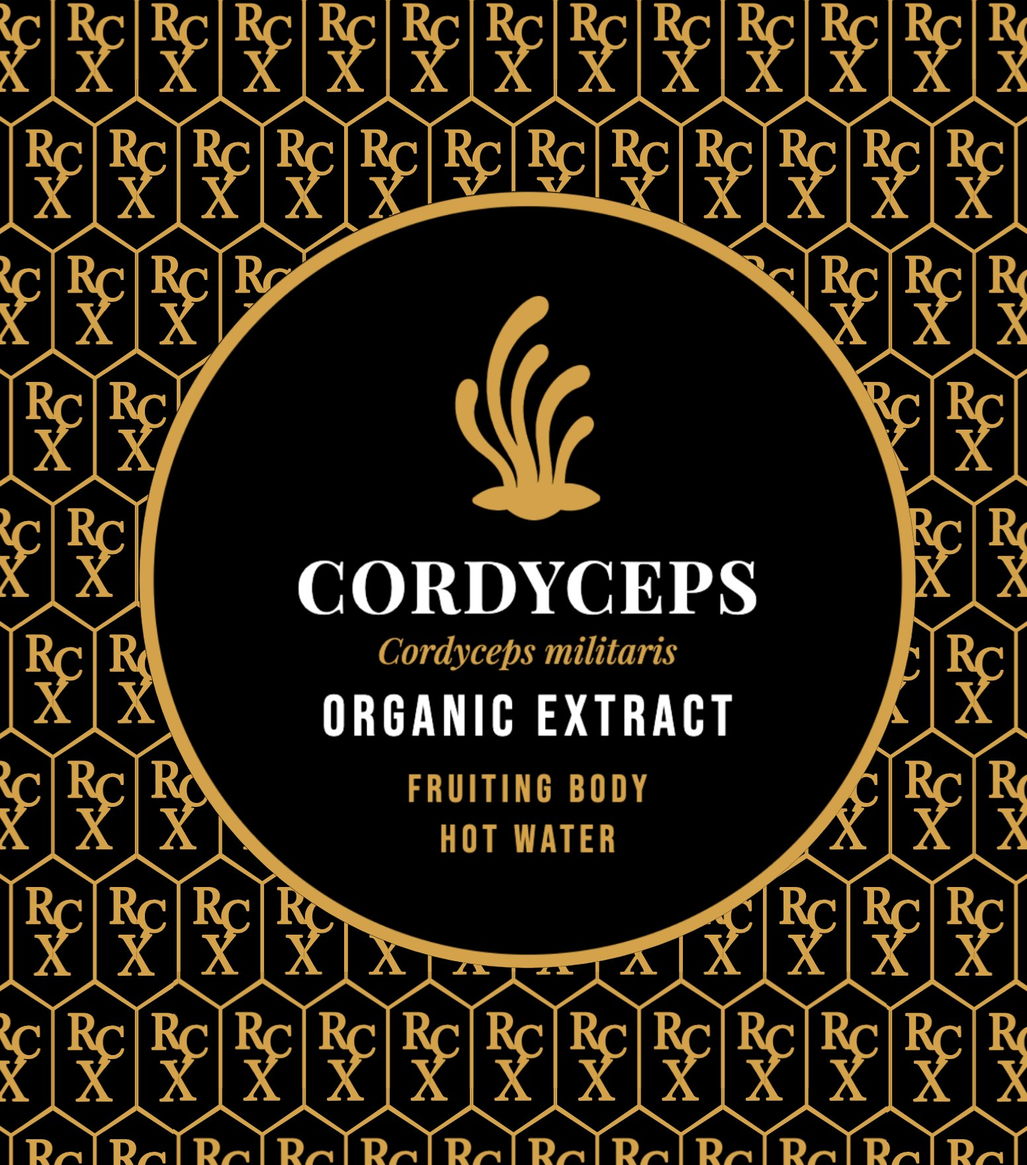
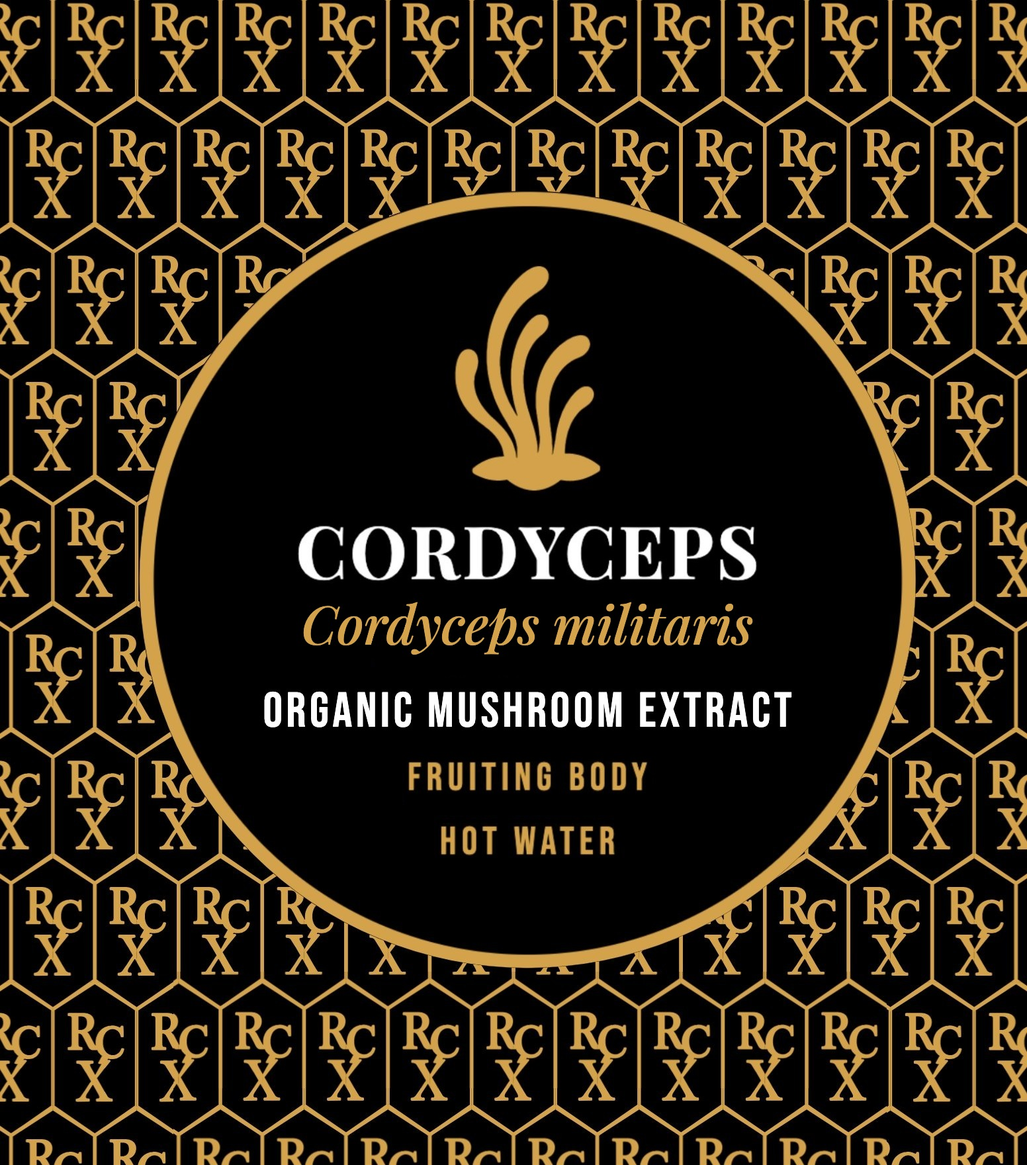
NOTE

Changed region(s): [[0.2474, 0.2188, 0.7732, 0.75]]

diff --git a/404.html b/404.html
@@ -822,21 +822,19 @@ button,nav,header,h1,h2,h3,h4,h5,h6,label,summary,[role="link"],[role="button"],
 <div style="width:100%;display:grid;background-color:#000;grid-template-columns:minmax(0,1fr) minmax(0,1fr);gap:0;align-items:stretch" data-split="half">
 <div data-m="wte-col" style="min-width:0;display:flex;flex-direction:column;justify-content:flex-start;gap:0;padding:40px 56px 40px calc(max(28px,(100% - 1300px) / 2 + 28px) + 52px);background-color:#000;background-image:linear-gradient(rgba(0,0,0,.86),rgba(0,0,0,.92)),url('assets/photo/why-rv-desk-nopen.jpg');background-size:cover;background-repeat:no-repeat;background-position:12% 38%">
 <div data-m="wte-inner" style="min-width:0;align-self:flex-end;width:min(100%,600px)">
-<div data-m="pk-dup" style="display:none;position:relative;overflow:hidden"><img src="assets/photo/packets-powder-trio-v7.png" alt="Cordyceps, Lion's Mane and Turkey Tail packets on their mushroom powders" style="position:absolute;inset:0;width:100%;height:100%;object-fit:cover;object-position:center 55%;display:block;filter:brightness(.8)" loading="lazy"></div>
-<h2 data-sweep="true" data-m="wte-h2" style="font-family:'Oswald',sans-serif;font-weight:300;letter-spacing:.1em;font-size:clamp(28px,4vw,53px);line-height:1.05;color:#F1ECE1;margin:0;width:100%;text-align:center;padding-left:120px">WHY THIS E<img src="assets/extract-x-gold.svg" alt="X" style="height:clamp(28px,3.95vw,54px);width:auto;display:inline-block;vertical-align:-0.2em;margin:0 -0.14em 0 -0.34em">ISTS</h2>
-<div data-m="wte-rule" style="width:calc(100% - 120px);height:2px;background:#D4A24A;margin:24px 0 18px;position:relative;left:120px"></div>
+<div data-m="pk-dup" style="display:none;position:relative;overflow:hidden"><img src="assets/photo/packets-powder-trio-v11.png" alt="Cordyceps, Lion's Mane and Turkey Tail packets on their mushroom powders" style="position:absolute;inset:0;width:100%;height:100%;object-fit:cover;object-position:center 92%;display:block;filter:brightness(.8)" loading="lazy"></div>
 <div data-m="wte-text" style="display:flex;flex-direction:column;gap:14px;width:100%;margin-top:18px;padding-left:120px">
-<p style="font-size:clamp(15px,1.24vw,19px);line-height:1.5;color:#FFFFFF;margin:0;text-align:justify">Raw Canopy Extract is an uncompromising new brand of organic, single-serving packets that you tear open and add to your favorite cup of coffee or tea. One ingredient in each. Nothing else. Made necessary by a supplement world full of healthy promises cut for profit.</p>
-<p style="font-size:clamp(15px,1.24vw,19px);line-height:1.5;color:#FFFFFF;margin:0;text-align:justify">We're launching with three non-psychedelic, everyday mushroom extract powders: lion's mane, cordyceps and turkey tail. We follow the research that yields the best results for the human body, species by species.</p>
+<p style="font-size:clamp(15px,1.24vw,19px);line-height:1.5;color:#FFFFFF;margin:0;text-align:justify"><span style="color:#D4A24A;font-family:'Bebas Neue',sans-serif;letter-spacing:.12em;font-size:1.18em;line-height:0">RAW CANOPY EXTRACT</span> is an uncompromising new brand of organic, single-serving packets that you tear open and add to your favorite cup of coffee or tea. One ingredient in each. Nothing else. Made necessary by a supplement world full of healthy promises cut for profit.</p>
+<p style="font-size:clamp(15px,1.24vw,19px);line-height:1.5;color:#FFFFFF;margin:0;text-align:justify">We're launching with three non-psychedelic, <span style="color:#D4A24A">everyday mushroom powders</span>: lion's mane, cordyceps and turkey tail. We follow the research that yields the best results for the human body, species by species.</p>
 <div style="display:flex;flex-direction:column;gap:16px;align-self:stretch;text-align:center;padding-left:32px">
-<div style="display:flex;flex-direction:column;gap:4px"><p style="font-size:clamp(16px,1.35vw,21px);line-height:1.4;color:#FFFFFF;margin:0">Cordyceps for physical performance:</p><a href="https://journals.plos.org/plosone/article?id=10.1371/journal.pone.0351725" target="_blank" rel="noopener" style="font-size:clamp(13px,1vw,15px);line-height:1.45;color:#D4A24A;text-decoration:underline;text-underline-offset:3px;text-wrap:pretty">Cordyceps fruiting body extract and faster reaction times: a randomized, placebo-controlled trial (PLOS One, 2026)</a></div>
-<div style="display:flex;flex-direction:column;gap:4px"><p style="font-size:clamp(16px,1.35vw,21px);line-height:1.4;color:#FFFFFF;margin:0">Lion's mane for mental clarity:</p><a href="https://www.jstage.jst.go.jp/article/biomedres/40/4/40_125/_article" target="_blank" rel="noopener" style="font-size:clamp(13px,1vw,15px);line-height:1.45;color:#D4A24A;text-decoration:underline;text-underline-offset:3px;text-wrap:pretty">Lion's mane and memory and thinking: a 12-week randomized, placebo-controlled trial (Biomedical Research, 2019)</a></div>
-<div style="display:flex;flex-direction:column;gap:4px"><p style="font-size:clamp(16px,1.35vw,21px);line-height:1.4;color:#FFFFFF;margin:0">Turkey tail for immune support:</p><a href="https://www.sciencedirect.com/science/article/abs/pii/S156757690300290X" target="_blank" rel="noopener" style="font-size:clamp(13px,1vw,15px);line-height:1.45;color:#D4A24A;text-decoration:underline;text-underline-offset:3px;text-wrap:pretty">Turkey tail (Yun Zhi) and immune function in 100 healthy adults: a randomized, placebo-controlled trial (International Immunopharmacology, 2004)</a></div>
+<div style="display:flex;flex-direction:column;gap:4px"><p style="font-size:clamp(16px,1.35vw,21px);line-height:1.4;color:#FFFFFF;margin:0">Cordyceps mushroom for physical performance:</p><a href="https://journals.plos.org/plosone/article?id=10.1371/journal.pone.0351725" target="_blank" rel="noopener" style="font-size:clamp(13px,1vw,15px);line-height:1.45;color:#D4A24A;text-decoration:underline;text-underline-offset:3px;text-wrap:pretty">Cordyceps fruiting body extract and faster reaction times: a randomized, placebo-controlled trial (PLOS One, 2026)</a></div>
+<div style="display:flex;flex-direction:column;gap:4px"><p style="font-size:clamp(16px,1.35vw,21px);line-height:1.4;color:#FFFFFF;margin:0">Lion's mane mushroom for mental clarity:</p><a href="https://www.jstage.jst.go.jp/article/biomedres/40/4/40_125/_article" target="_blank" rel="noopener" style="font-size:clamp(13px,1vw,15px);line-height:1.45;color:#D4A24A;text-decoration:underline;text-underline-offset:3px;text-wrap:pretty">Lion's mane and memory and thinking: a 12-week randomized, placebo-controlled trial (Biomedical Research, 2019)</a></div>
+<div style="display:flex;flex-direction:column;gap:4px"><p style="font-size:clamp(16px,1.35vw,21px);line-height:1.4;color:#FFFFFF;margin:0">Turkey tail mushroom for immune support:</p><a href="https://www.sciencedirect.com/science/article/abs/pii/S156757690300290X" target="_blank" rel="noopener" style="font-size:clamp(13px,1vw,15px);line-height:1.45;color:#D4A24A;text-decoration:underline;text-underline-offset:3px;text-wrap:pretty">Turkey tail (Yun Zhi) and immune function in 100 healthy adults: a randomized, placebo-controlled trial (International Immunopharmacology, 2004)</a></div>
 </div>
 <div style="display:flex;flex-direction:column;align-items:flex-end;gap:14px;margin:0">
 <p style="font-family:'Bebas Neue',sans-serif;letter-spacing:.06em;font-size:clamp(15px,1.72vw,27px);line-height:1.25;color:#D4A24A;margin:0;white-space:nowrap;display:block;text-align:right" data-keep-one-line="true">THE GYM. THE VIDEO CALL. THE LONG FLIGHT.</p>
 </div>
-<p style="font-size:clamp(16px,1.35vw,21px);line-height:1.5;color:#FFFFFF;margin:0;align-self:stretch;text-align:center;padding-left:32px"><span style="display:block">Not a coffee or tea drinker? Hot water or a smoothie works just as well.</span><span style="display:block">One 2 gram serving per packet, small enough for your pocket or purse and made for life on the go.</span><span style="display:block">Elevate your favorite cup with the power of botanical science.</span></p>
+<p style="font-size:clamp(15px,1.24vw,19px);line-height:1.5;color:#FFFFFF;margin:0;align-self:stretch;text-align:center;padding-left:32px"><span style="display:block">Not a coffee or tea drinker? Hot water or a smoothie works just as well.</span><span style="display:block">One 2 gram serving per packet, small enough for your pocket or purse and made for life on the go.</span><span style="display:block">Elevate your favorite cup with the power of botanical science.</span></p>
 <p data-m="lab-orig" style="font-size:clamp(15px,1.24vw,19px);line-height:1.5;color:#FFFFFF;margin:0;text-align:justify">Every batch we make is tested by an independent lab. We call the results the receipt. It's simple proof of what's actually in your packet: how much beta-glucan it has, the compound labs use to measure real mushroom content, and that it passed checks for contaminants. Find the lot number on the side of your recyclable steel tin and <a data-page="receipts" onClick="{{ go }}" role="link" tabindex="0" style="color:#D4A24A;text-decoration:underline;cursor:pointer" style-hover="color:#F1ECE1">look it up on our Receipts page</a> to see the results for the exact batch in your hands. For anyone who wants the full science, the complete lab certificate is there too.</p>
 </div>
 </div>
@@ -861,7 +859,7 @@ button,nav,header,h1,h2,h3,h4,h5,h6,label,summary,[role="link"],[role="button"],
 <div style="position:absolute;inset:0;display:grid;grid-template-rows:minmax(0,1fr) minmax(0,1fr);gap:0;line-height:0;font-size:0">
 
 
-<div data-m="pk-orig" style="position:relative;min-height:0;min-width:0;overflow:hidden"><img src="assets/photo/packets-powder-trio-v7.png" alt="Cordyceps, Lion's Mane and Turkey Tail packets on their mushroom powders" style="position:absolute;inset:0;width:100%;height:100%;object-fit:cover;object-position:center 55%;display:block;filter:brightness(.8)" loading="lazy"></div><div style="position:relative;min-height:0;overflow:hidden;line-height:0"><img src="assets/photo/tent-mug-zoom.jpg" alt="A woman holding a mug in a tent" style="width:100%;height:100%;min-height:0;object-fit:cover;object-position:center 50%;display:block" loading="lazy"><div style="position:absolute;inset:0;pointer-events:none;background:radial-gradient(118% 108% at 44% 38%,rgba(0,0,0,0) 48%,rgba(0,0,0,.2) 76%,rgba(0,0,0,.44) 100%)"></div></div></div>
+<div data-m="pk-orig" style="position:relative;min-height:0;min-width:0;overflow:hidden"><img src="assets/photo/packets-powder-trio-v11.png" alt="Cordyceps, Lion's Mane and Turkey Tail packets on their mushroom powders" style="position:absolute;inset:0;width:100%;height:100%;object-fit:cover;object-position:center 92%;display:block;filter:brightness(.8)" loading="lazy"></div><div style="position:relative;min-height:0;overflow:hidden;line-height:0"><img src="assets/photo/tent-mug-zoom.jpg" alt="A woman holding a mug in a tent" style="width:100%;height:100%;min-height:0;object-fit:cover;object-position:center 50%;display:block" loading="lazy"><div style="position:absolute;inset:0;pointer-events:none;background:radial-gradient(118% 108% at 44% 38%,rgba(0,0,0,0) 48%,rgba(0,0,0,.2) 76%,rgba(0,0,0,.44) 100%)"></div></div></div>
 </div>
 </div>
 </section>
@@ -912,7 +910,7 @@ button,nav,header,h1,h2,h3,h4,h5,h6,label,summary,[role="link"],[role="button"],
 <div data-tin="true" style="position:relative;width:86%;margin-top:22.3%;filter:drop-shadow(0 26px 30px rgba(0,0,0,.85))">
 <div aria-hidden="true" style="position:relative;width:102%;margin-left:-1%;aspect-ratio:80/8.6;background:linear-gradient(90deg,#050505 0%,#1A1A18 20%,#3A3936 42%,#1C1C1A 64%,#0B0B0A 85%,#030303 100%);border-radius:3px 3px 1px 1px;box-shadow:inset 0 1px 0 rgba(255,255,255,.28),inset 0 -2px 3px rgba(0,0,0,.55);border-bottom:1px solid rgba(212,162,74,.55)"></div>
 <div style="position:relative;background:#000">
-<img src="assets/photo/tins/rcx-front-lions-mane.jpg" alt="Lion's Mane steel tin front" style="width:100%;aspect-ratio:80/102;height:auto;display:block" loading="lazy">
+<img src="assets/photo/tins/rcx-front-lions-mane.jpg?v=8" alt="Lion's Mane steel tin front" style="width:100%;aspect-ratio:80/102;height:auto;display:block" loading="lazy">
 <div aria-hidden="true" style="position:absolute;inset:0;pointer-events:none;background:linear-gradient(90deg,rgba(0,0,0,.45) 0%,rgba(0,0,0,0) 9%,rgba(255,255,255,.05) 34%,rgba(255,255,255,0) 50%,rgba(0,0,0,0) 88%,rgba(0,0,0,.5) 100%),linear-gradient(180deg,rgba(0,0,0,.35) 0%,rgba(0,0,0,0) 4%,rgba(0,0,0,0) 94%,rgba(0,0,0,.4) 100%);box-shadow:inset 0 0 0 1px rgba(212,162,74,.32)"></div>
 </div>
 </div>
@@ -929,7 +927,7 @@ button,nav,header,h1,h2,h3,h4,h5,h6,label,summary,[role="link"],[role="button"],
 <div data-tin="true" style="position:relative;width:86%;margin-top:22.3%;filter:drop-shadow(0 26px 30px rgba(0,0,0,.85))">
 <div aria-hidden="true" style="position:relative;width:102%;margin-left:-1%;aspect-ratio:80/8.6;background:linear-gradient(90deg,#050505 0%,#1A1A18 20%,#3A3936 42%,#1C1C1A 64%,#0B0B0A 85%,#030303 100%);border-radius:3px 3px 1px 1px;box-shadow:inset 0 1px 0 rgba(255,255,255,.28),inset 0 -2px 3px rgba(0,0,0,.55);border-bottom:1px solid rgba(212,162,74,.55)"></div>
 <div style="position:relative;background:#000">
-<img src="assets/photo/tins/rcx-front-cordyceps.jpg" alt="Cordyceps steel tin front" style="width:100%;aspect-ratio:80/102;height:auto;display:block" loading="lazy">
+<img src="assets/photo/tins/rcx-front-cordyceps.jpg?v=9" alt="Cordyceps steel tin front" style="width:100%;aspect-ratio:80/102;height:auto;display:block" loading="lazy">
 <div aria-hidden="true" style="position:absolute;inset:0;pointer-events:none;background:linear-gradient(90deg,rgba(0,0,0,.45) 0%,rgba(0,0,0,0) 9%,rgba(255,255,255,.05) 34%,rgba(255,255,255,0) 50%,rgba(0,0,0,0) 88%,rgba(0,0,0,.5) 100%),linear-gradient(180deg,rgba(0,0,0,.35) 0%,rgba(0,0,0,0) 4%,rgba(0,0,0,0) 94%,rgba(0,0,0,.4) 100%);box-shadow:inset 0 0 0 1px rgba(212,162,74,.32)"></div>
 </div>
 </div>
@@ -946,7 +944,7 @@ button,nav,header,h1,h2,h3,h4,h5,h6,label,summary,[role="link"],[role="button"],
 <div data-tin="true" style="position:relative;width:86%;margin-top:22.3%;filter:drop-shadow(0 26px 30px rgba(0,0,0,.85))">
 <div aria-hidden="true" style="position:relative;width:102%;margin-left:-1%;aspect-ratio:80/8.6;background:linear-gradient(90deg,#050505 0%,#1A1A18 20%,#3A3936 42%,#1C1C1A 64%,#0B0B0A 85%,#030303 100%);border-radius:3px 3px 1px 1px;box-shadow:inset 0 1px 0 rgba(255,255,255,.28),inset 0 -2px 3px rgba(0,0,0,.55);border-bottom:1px solid rgba(212,162,74,.55)"></div>
 <div style="position:relative;background:#000">
-<img src="assets/photo/tins/rcx-front-turkey-tail.jpg" alt="Turkey Tail steel tin front" style="width:100%;aspect-ratio:80/102;height:auto;display:block" loading="lazy">
+<img src="assets/photo/tins/rcx-front-turkey-tail.jpg?v=9" alt="Turkey Tail steel tin front" style="width:100%;aspect-ratio:80/102;height:auto;display:block" loading="lazy">
 <div aria-hidden="true" style="position:absolute;inset:0;pointer-events:none;background:linear-gradient(90deg,rgba(0,0,0,.45) 0%,rgba(0,0,0,0) 9%,rgba(255,255,255,.05) 34%,rgba(255,255,255,0) 50%,rgba(0,0,0,0) 88%,rgba(0,0,0,.5) 100%),linear-gradient(180deg,rgba(0,0,0,.35) 0%,rgba(0,0,0,0) 4%,rgba(0,0,0,0) 94%,rgba(0,0,0,.4) 100%);box-shadow:inset 0 0 0 1px rgba(212,162,74,.32)"></div>
 </div>
 </div>
@@ -962,7 +960,7 @@ button,nav,header,h1,h2,h3,h4,h5,h6,label,summary,[role="link"],[role="button"],
 <div data-tin="true" style="position:relative;width:86%;margin-top:3%;filter:drop-shadow(0 26px 30px rgba(0,0,0,.85))">
 <div aria-hidden="true" style="position:relative;width:102%;margin-left:-1%;aspect-ratio:80/8.6;background:linear-gradient(90deg,#5E0F17 0%,#8E1C26 18%,#C2404A 40%,#9A222C 62%,#6A121B 84%,#4E0B12 100%);border-radius:3px 3px 1px 1px;box-shadow:inset 0 1px 0 rgba(255,255,255,.28),inset 0 -2px 3px rgba(0,0,0,.55);border-bottom:1px solid rgba(212,162,74,.55)"></div>
 <div style="position:relative;background:#A8232E">
-<img src="assets/photo/tins/rcx-front-combo.jpg" alt="Mushroom Combo packet front" style="width:100%;aspect-ratio:80/127;height:auto;display:block" loading="lazy">
+<img src="assets/photo/tins/rcx-front-combo.jpg?v=8" alt="Mushroom Combo packet front" style="width:100%;aspect-ratio:80/127;height:auto;display:block" loading="lazy">
 <div aria-hidden="true" style="position:absolute;inset:0;pointer-events:none;background:linear-gradient(90deg,rgba(0,0,0,.45) 0%,rgba(0,0,0,0) 9%,rgba(255,255,255,.06) 34%,rgba(255,255,255,0) 50%,rgba(0,0,0,0) 88%,rgba(0,0,0,.5) 100%),linear-gradient(180deg,rgba(0,0,0,.35) 0%,rgba(0,0,0,0) 4%,rgba(0,0,0,0) 94%,rgba(0,0,0,.4) 100%);box-shadow:inset 0 0 0 1px rgba(212,162,74,.25)"></div>
 </div>
 </div>
@@ -1045,7 +1043,7 @@ button,nav,header,h1,h2,h3,h4,h5,h6,label,summary,[role="link"],[role="button"],
 <div style="position:absolute;inset:0;background:rgba(0,0,0,.92);pointer-events:none"></div>
 <div style="position:relative;max-width:1300px;margin:0 auto;display:grid;grid-template-columns:repeat(4,minmax(0,1fr));gap:16px" data-m="1col"><article style="border:1px solid rgba(212,162,74,.2);background:linear-gradient(#0A0A09,#000);padding:16px;display:flex;flex-direction:column;container-type:inline-size">
 <div style="position:relative;height:calc(125cqw + 16px);background:#000;margin:-16px -16px 20px;overflow:hidden">
-<img src="assets/photo/tins/rcx-front-lions-mane-packet.jpg" alt="Lion's Mane packet front" style="position:absolute;max-width:none;width:calc(100cqw * 1552 / 1312);height:auto;left:calc(16px - 100cqw * 120 / 1312);top:calc(16px - 100cqw * 120 / 1312);aspect-ratio:1552/1760;display:block">
+<img src="assets/photo/tins/rcx-front-lions-mane-packet.jpg?v=5" alt="Lion's Mane packet front" style="position:absolute;max-width:none;width:calc(100cqw * 1552 / 1312);height:auto;left:calc(16px - 100cqw * 120 / 1312);top:calc(16px - 100cqw * 120 / 1312);aspect-ratio:1552/1760;display:block">
 </div>
 <h2 style="font-family:'Playfair Display',serif;font-weight:500;font-size:clamp(30px,2.6vw,38px);color:#F1ECE1;margin:0 0 8px">Lion's Mane</h2>
 <p style="font-family:'Bebas Neue',sans-serif;letter-spacing:.16em;font-size:15px;color:#D4A24A;margin:0 0 14px">20 PACKETS · 2 GRAM SERVINGS</p>
@@ -1069,7 +1067,7 @@ button,nav,header,h1,h2,h3,h4,h5,h6,label,summary,[role="link"],[role="button"],
 
 <article style="border:1px solid rgba(212,162,74,.2);background:linear-gradient(#0A0A09,#000);padding:16px;display:flex;flex-direction:column;container-type:inline-size">
 <div style="position:relative;height:calc(125cqw + 16px);background:#000;margin:-16px -16px 20px;overflow:hidden">
-<img src="assets/photo/tins/rcx-front-cordyceps-packet.jpg" alt="Cordyceps packet front" style="position:absolute;max-width:none;width:calc(100cqw * 1552 / 1312);height:auto;left:calc(16px - 100cqw * 120 / 1312);top:calc(16px - 100cqw * 120 / 1312);aspect-ratio:1552/1760;display:block">
+<img src="assets/photo/tins/rcx-front-cordyceps-packet.jpg?v=5" alt="Cordyceps packet front" style="position:absolute;max-width:none;width:calc(100cqw * 1552 / 1312);height:auto;left:calc(16px - 100cqw * 120 / 1312);top:calc(16px - 100cqw * 120 / 1312);aspect-ratio:1552/1760;display:block">
 </div>
 <h2 style="font-family:'Playfair Display',serif;font-weight:500;font-size:clamp(30px,2.6vw,38px);color:#F1ECE1;margin:0 0 8px">Cordyceps</h2>
 <p style="font-family:'Bebas Neue',sans-serif;letter-spacing:.16em;font-size:15px;color:#D4A24A;margin:0 0 14px">20 PACKETS · 2 GRAM SERVINGS</p>
@@ -1093,7 +1091,7 @@ button,nav,header,h1,h2,h3,h4,h5,h6,label,summary,[role="link"],[role="button"],
 
 <article style="border:1px solid rgba(212,162,74,.2);background:linear-gradient(#0A0A09,#000);padding:16px;display:flex;flex-direction:column;container-type:inline-size">
 <div style="position:relative;height:calc(125cqw + 16px);background:#000;margin:-16px -16px 20px;overflow:hidden">
-<img src="assets/photo/tins/rcx-front-turkey-tail-packet.jpg" alt="Turkey Tail packet front" style="position:absolute;max-width:none;width:calc(100cqw * 1552 / 1312);height:auto;left:calc(16px - 100cqw * 120 / 1312);top:calc(16px - 100cqw * 120 / 1312);aspect-ratio:1552/1760;display:block">
+<img src="assets/photo/tins/rcx-front-turkey-tail-packet.jpg?v=5" alt="Turkey Tail packet front" style="position:absolute;max-width:none;width:calc(100cqw * 1552 / 1312);height:auto;left:calc(16px - 100cqw * 120 / 1312);top:calc(16px - 100cqw * 120 / 1312);aspect-ratio:1552/1760;display:block">
 </div>
 <h2 style="font-family:'Playfair Display',serif;font-weight:500;font-size:clamp(30px,2.6vw,38px);color:#F1ECE1;margin:0 0 8px">Turkey Tail</h2>
 <p style="font-family:'Bebas Neue',sans-serif;letter-spacing:.16em;font-size:15px;color:#D4A24A;margin:0 0 14px">20 PACKETS · 2 GRAM SERVINGS</p>
@@ -1116,7 +1114,7 @@ button,nav,header,h1,h2,h3,h4,h5,h6,label,summary,[role="link"],[role="button"],
 </article>
 <article style="border:1px solid rgba(212,162,74,.2);background:#A6202B;padding:16px;display:flex;flex-direction:column;container-type:inline-size">
 <div style="position:relative;height:calc(125cqw + 16px);background:#A6202B;margin:-16px -16px 20px;overflow:hidden">
-<img src="assets/photo/tins/rcx-front-combo-shop-v5.jpg" alt="Mushroom Combo packet front" style="position:absolute;max-width:none;width:calc(100cqw * 1552 / 1312);height:auto;left:calc(16px - 100cqw * 120 / 1312);top:calc(16px - 100cqw * 120 / 1312);aspect-ratio:1552/1760;display:block">
+<img src="assets/photo/tins/rcx-front-combo-shop-v5.jpg?v=8" alt="Mushroom Combo packet front" style="position:absolute;max-width:none;width:calc(100cqw * 1552 / 1312);height:auto;left:calc(16px - 100cqw * 120 / 1312);top:calc(16px - 100cqw * 120 / 1312);aspect-ratio:1552/1760;display:block">
 <div data-metal="true" aria-hidden="true" style="position:absolute;inset:0;pointer-events:none;mix-blend-mode:overlay;opacity:.55;background:repeating-linear-gradient(0deg,rgba(255,255,255,.10) 0px,rgba(0,0,0,.14) 1px,rgba(255,255,255,.04) 2px,rgba(0,0,0,.08) 3px,rgba(255,255,255,.07) 4px),repeating-linear-gradient(0deg,rgba(0,0,0,0) 0px,rgba(0,0,0,.10) 7px,rgba(255,255,255,.05) 13px,rgba(0,0,0,0) 19px)"></div>
 <div aria-hidden="true" style="position:absolute;inset:0;pointer-events:none;mix-blend-mode:soft-light;background:linear-gradient(105deg,rgba(0,0,0,.30) 0%,rgba(255,255,255,.10) 30%,rgba(0,0,0,.12) 52%,rgba(255,255,255,.08) 74%,rgba(0,0,0,.30) 100%)"></div>
 <div aria-hidden="true" style="position:absolute;inset:0;pointer-events:none;background:linear-gradient(180deg,rgba(0,0,0,0) 70%,rgba(0,0,0,.22) 100%)"></div>

diff --git a/index.html b/index.html
@@ -822,21 +822,19 @@ button,nav,header,h1,h2,h3,h4,h5,h6,label,summary,[role="link"],[role="button"],
 <div style="width:100%;display:grid;background-color:#000;grid-template-columns:minmax(0,1fr) minmax(0,1fr);gap:0;align-items:stretch" data-split="half">
 <div data-m="wte-col" style="min-width:0;display:flex;flex-direction:column;justify-content:flex-start;gap:0;padding:40px 56px 40px calc(max(28px,(100% - 1300px) / 2 + 28px) + 52px);background-color:#000;background-image:linear-gradient(rgba(0,0,0,.86),rgba(0,0,0,.92)),url('assets/photo/why-rv-desk-nopen.jpg');background-size:cover;background-repeat:no-repeat;background-position:12% 38%">
 <div data-m="wte-inner" style="min-width:0;align-self:flex-end;width:min(100%,600px)">
-<div data-m="pk-dup" style="display:none;position:relative;overflow:hidden"><img src="assets/photo/packets-powder-trio-v7.png" alt="Cordyceps, Lion's Mane and Turkey Tail packets on their mushroom powders" style="position:absolute;inset:0;width:100%;height:100%;object-fit:cover;object-position:center 55%;display:block;filter:brightness(.8)" loading="lazy"></div>
-<h2 data-sweep="true" data-m="wte-h2" style="font-family:'Oswald',sans-serif;font-weight:300;letter-spacing:.1em;font-size:clamp(28px,4vw,53px);line-height:1.05;color:#F1ECE1;margin:0;width:100%;text-align:center;padding-left:120px">WHY THIS E<img src="assets/extract-x-gold.svg" alt="X" style="height:clamp(28px,3.95vw,54px);width:auto;display:inline-block;vertical-align:-0.2em;margin:0 -0.14em 0 -0.34em">ISTS</h2>
-<div data-m="wte-rule" style="width:calc(100% - 120px);height:2px;background:#D4A24A;margin:24px 0 18px;position:relative;left:120px"></div>
+<div data-m="pk-dup" style="display:none;position:relative;overflow:hidden"><img src="assets/photo/packets-powder-trio-v11.png" alt="Cordyceps, Lion's Mane and Turkey Tail packets on their mushroom powders" style="position:absolute;inset:0;width:100%;height:100%;object-fit:cover;object-position:center 92%;display:block;filter:brightness(.8)" loading="lazy"></div>
 <div data-m="wte-text" style="display:flex;flex-direction:column;gap:14px;width:100%;margin-top:18px;padding-left:120px">
-<p style="font-size:clamp(15px,1.24vw,19px);line-height:1.5;color:#FFFFFF;margin:0;text-align:justify">Raw Canopy Extract is an uncompromising new brand of organic, single-serving packets that you tear open and add to your favorite cup of coffee or tea. One ingredient in each. Nothing else. Made necessary by a supplement world full of healthy promises cut for profit.</p>
-<p style="font-size:clamp(15px,1.24vw,19px);line-height:1.5;color:#FFFFFF;margin:0;text-align:justify">We're launching with three non-psychedelic, everyday mushroom extract powders: lion's mane, cordyceps and turkey tail. We follow the research that yields the best results for the human body, species by species.</p>
+<p style="font-size:clamp(15px,1.24vw,19px);line-height:1.5;color:#FFFFFF;margin:0;text-align:justify"><span style="color:#D4A24A;font-family:'Bebas Neue',sans-serif;letter-spacing:.12em;font-size:1.18em;line-height:0">RAW CANOPY EXTRACT</span> is an uncompromising new brand of organic, single-serving packets that you tear open and add to your favorite cup of coffee or tea. One ingredient in each. Nothing else. Made necessary by a supplement world full of healthy promises cut for profit.</p>
+<p style="font-size:clamp(15px,1.24vw,19px);line-height:1.5;color:#FFFFFF;margin:0;text-align:justify">We're launching with three non-psychedelic, <span style="color:#D4A24A">everyday mushroom powders</span>: lion's mane, cordyceps and turkey tail. We follow the research that yields the best results for the human body, species by species.</p>
 <div style="display:flex;flex-direction:column;gap:16px;align-self:stretch;text-align:center;padding-left:32px">
-<div style="display:flex;flex-direction:column;gap:4px"><p style="font-size:clamp(16px,1.35vw,21px);line-height:1.4;color:#FFFFFF;margin:0">Cordyceps for physical performance:</p><a href="https://journals.plos.org/plosone/article?id=10.1371/journal.pone.0351725" target="_blank" rel="noopener" style="font-size:clamp(13px,1vw,15px);line-height:1.45;color:#D4A24A;text-decoration:underline;text-underline-offset:3px;text-wrap:pretty">Cordyceps fruiting body extract and faster reaction times: a randomized, placebo-controlled trial (PLOS One, 2026)</a></div>
-<div style="display:flex;flex-direction:column;gap:4px"><p style="font-size:clamp(16px,1.35vw,21px);line-height:1.4;color:#FFFFFF;margin:0">Lion's mane for mental clarity:</p><a href="https://www.jstage.jst.go.jp/article/biomedres/40/4/40_125/_article" target="_blank" rel="noopener" style="font-size:clamp(13px,1vw,15px);line-height:1.45;color:#D4A24A;text-decoration:underline;text-underline-offset:3px;text-wrap:pretty">Lion's mane and memory and thinking: a 12-week randomized, placebo-controlled trial (Biomedical Research, 2019)</a></div>
-<div style="display:flex;flex-direction:column;gap:4px"><p style="font-size:clamp(16px,1.35vw,21px);line-height:1.4;color:#FFFFFF;margin:0">Turkey tail for immune support:</p><a href="https://www.sciencedirect.com/science/article/abs/pii/S156757690300290X" target="_blank" rel="noopener" style="font-size:clamp(13px,1vw,15px);line-height:1.45;color:#D4A24A;text-decoration:underline;text-underline-offset:3px;text-wrap:pretty">Turkey tail (Yun Zhi) and immune function in 100 healthy adults: a randomized, placebo-controlled trial (International Immunopharmacology, 2004)</a></div>
+<div style="display:flex;flex-direction:column;gap:4px"><p style="font-size:clamp(16px,1.35vw,21px);line-height:1.4;color:#FFFFFF;margin:0">Cordyceps mushroom for physical performance:</p><a href="https://journals.plos.org/plosone/article?id=10.1371/journal.pone.0351725" target="_blank" rel="noopener" style="font-size:clamp(13px,1vw,15px);line-height:1.45;color:#D4A24A;text-decoration:underline;text-underline-offset:3px;text-wrap:pretty">Cordyceps fruiting body extract and faster reaction times: a randomized, placebo-controlled trial (PLOS One, 2026)</a></div>
+<div style="display:flex;flex-direction:column;gap:4px"><p style="font-size:clamp(16px,1.35vw,21px);line-height:1.4;color:#FFFFFF;margin:0">Lion's mane mushroom for mental clarity:</p><a href="https://www.jstage.jst.go.jp/article/biomedres/40/4/40_125/_article" target="_blank" rel="noopener" style="font-size:clamp(13px,1vw,15px);line-height:1.45;color:#D4A24A;text-decoration:underline;text-underline-offset:3px;text-wrap:pretty">Lion's mane and memory and thinking: a 12-week randomized, placebo-controlled trial (Biomedical Research, 2019)</a></div>
+<div style="display:flex;flex-direction:column;gap:4px"><p style="font-size:clamp(16px,1.35vw,21px);line-height:1.4;color:#FFFFFF;margin:0">Turkey tail mushroom for immune support:</p><a href="https://www.sciencedirect.com/science/article/abs/pii/S156757690300290X" target="_blank" rel="noopener" style="font-size:clamp(13px,1vw,15px);line-height:1.45;color:#D4A24A;text-decoration:underline;text-underline-offset:3px;text-wrap:pretty">Turkey tail (Yun Zhi) and immune function in 100 healthy adults: a randomized, placebo-controlled trial (International Immunopharmacology, 2004)</a></div>
 </div>
 <div style="display:flex;flex-direction:column;align-items:flex-end;gap:14px;margin:0">
 <p style="font-family:'Bebas Neue',sans-serif;letter-spacing:.06em;font-size:clamp(15px,1.72vw,27px);line-height:1.25;color:#D4A24A;margin:0;white-space:nowrap;display:block;text-align:right" data-keep-one-line="true">THE GYM. THE VIDEO CALL. THE LONG FLIGHT.</p>
 </div>
-<p style="font-size:clamp(16px,1.35vw,21px);line-height:1.5;color:#FFFFFF;margin:0;align-self:stretch;text-align:center;padding-left:32px"><span style="display:block">Not a coffee or tea drinker? Hot water or a smoothie works just as well.</span><span style="display:block">One 2 gram serving per packet, small enough for your pocket or purse and made for life on the go.</span><span style="display:block">Elevate your favorite cup with the power of botanical science.</span></p>
+<p style="font-size:clamp(15px,1.24vw,19px);line-height:1.5;color:#FFFFFF;margin:0;align-self:stretch;text-align:center;padding-left:32px"><span style="display:block">Not a coffee or tea drinker? Hot water or a smoothie works just as well.</span><span style="display:block">One 2 gram serving per packet, small enough for your pocket or purse and made for life on the go.</span><span style="display:block">Elevate your favorite cup with the power of botanical science.</span></p>
 <p data-m="lab-orig" style="font-size:clamp(15px,1.24vw,19px);line-height:1.5;color:#FFFFFF;margin:0;text-align:justify">Every batch we make is tested by an independent lab. We call the results the receipt. It's simple proof of what's actually in your packet: how much beta-glucan it has, the compound labs use to measure real mushroom content, and that it passed checks for contaminants. Find the lot number on the side of your recyclable steel tin and <a data-page="receipts" onClick="{{ go }}" role="link" tabindex="0" style="color:#D4A24A;text-decoration:underline;cursor:pointer" style-hover="color:#F1ECE1">look it up on our Receipts page</a> to see the results for the exact batch in your hands. For anyone who wants the full science, the complete lab certificate is there too.</p>
 </div>
 </div>
@@ -861,7 +859,7 @@ button,nav,header,h1,h2,h3,h4,h5,h6,label,summary,[role="link"],[role="button"],
 <div style="position:absolute;inset:0;display:grid;grid-template-rows:minmax(0,1fr) minmax(0,1fr);gap:0;line-height:0;font-size:0">
 
 
-<div data-m="pk-orig" style="position:relative;min-height:0;min-width:0;overflow:hidden"><img src="assets/photo/packets-powder-trio-v7.png" alt="Cordyceps, Lion's Mane and Turkey Tail packets on their mushroom powders" style="position:absolute;inset:0;width:100%;height:100%;object-fit:cover;object-position:center 55%;display:block;filter:brightness(.8)" loading="lazy"></div><div style="position:relative;min-height:0;overflow:hidden;line-height:0"><img src="assets/photo/tent-mug-zoom.jpg" alt="A woman holding a mug in a tent" style="width:100%;height:100%;min-height:0;object-fit:cover;object-position:center 50%;display:block" loading="lazy"><div style="position:absolute;inset:0;pointer-events:none;background:radial-gradient(118% 108% at 44% 38%,rgba(0,0,0,0) 48%,rgba(0,0,0,.2) 76%,rgba(0,0,0,.44) 100%)"></div></div></div>
+<div data-m="pk-orig" style="position:relative;min-height:0;min-width:0;overflow:hidden"><img src="assets/photo/packets-powder-trio-v11.png" alt="Cordyceps, Lion's Mane and Turkey Tail packets on their mushroom powders" style="position:absolute;inset:0;width:100%;height:100%;object-fit:cover;object-position:center 92%;display:block;filter:brightness(.8)" loading="lazy"></div><div style="position:relative;min-height:0;overflow:hidden;line-height:0"><img src="assets/photo/tent-mug-zoom.jpg" alt="A woman holding a mug in a tent" style="width:100%;height:100%;min-height:0;object-fit:cover;object-position:center 50%;display:block" loading="lazy"><div style="position:absolute;inset:0;pointer-events:none;background:radial-gradient(118% 108% at 44% 38%,rgba(0,0,0,0) 48%,rgba(0,0,0,.2) 76%,rgba(0,0,0,.44) 100%)"></div></div></div>
 </div>
 </div>
 </section>
@@ -912,7 +910,7 @@ button,nav,header,h1,h2,h3,h4,h5,h6,label,summary,[role="link"],[role="button"],
 <div data-tin="true" style="position:relative;width:86%;margin-top:22.3%;filter:drop-shadow(0 26px 30px rgba(0,0,0,.85))">
 <div aria-hidden="true" style="position:relative;width:102%;margin-left:-1%;aspect-ratio:80/8.6;background:linear-gradient(90deg,#050505 0%,#1A1A18 20%,#3A3936 42%,#1C1C1A 64%,#0B0B0A 85%,#030303 100%);border-radius:3px 3px 1px 1px;box-shadow:inset 0 1px 0 rgba(255,255,255,.28),inset 0 -2px 3px rgba(0,0,0,.55);border-bottom:1px solid rgba(212,162,74,.55)"></div>
 <div style="position:relative;background:#000">
-<img src="assets/photo/tins/rcx-front-lions-mane.jpg" alt="Lion's Mane steel tin front" style="width:100%;aspect-ratio:80/102;height:auto;display:block" loading="lazy">
+<img src="assets/photo/tins/rcx-front-lions-mane.jpg?v=8" alt="Lion's Mane steel tin front" style="width:100%;aspect-ratio:80/102;height:auto;display:block" loading="lazy">
 <div aria-hidden="true" style="position:absolute;inset:0;pointer-events:none;background:linear-gradient(90deg,rgba(0,0,0,.45) 0%,rgba(0,0,0,0) 9%,rgba(255,255,255,.05) 34%,rgba(255,255,255,0) 50%,rgba(0,0,0,0) 88%,rgba(0,0,0,.5) 100%),linear-gradient(180deg,rgba(0,0,0,.35) 0%,rgba(0,0,0,0) 4%,rgba(0,0,0,0) 94%,rgba(0,0,0,.4) 100%);box-shadow:inset 0 0 0 1px rgba(212,162,74,.32)"></div>
 </div>
 </div>
@@ -929,7 +927,7 @@ button,nav,header,h1,h2,h3,h4,h5,h6,label,summary,[role="link"],[role="button"],
 <div data-tin="true" style="position:relative;width:86%;margin-top:22.3%;filter:drop-shadow(0 26px 30px rgba(0,0,0,.85))">
 <div aria-hidden="true" style="position:relative;width:102%;margin-left:-1%;aspect-ratio:80/8.6;background:linear-gradient(90deg,#050505 0%,#1A1A18 20%,#3A3936 42%,#1C1C1A 64%,#0B0B0A 85%,#030303 100%);border-radius:3px 3px 1px 1px;box-shadow:inset 0 1px 0 rgba(255,255,255,.28),inset 0 -2px 3px rgba(0,0,0,.55);border-bottom:1px solid rgba(212,162,74,.55)"></div>
 <div style="position:relative;background:#000">
-<img src="assets/photo/tins/rcx-front-cordyceps.jpg" alt="Cordyceps steel tin front" style="width:100%;aspect-ratio:80/102;height:auto;display:block" loading="lazy">
+<img src="assets/photo/tins/rcx-front-cordyceps.jpg?v=9" alt="Cordyceps steel tin front" style="width:100%;aspect-ratio:80/102;height:auto;display:block" loading="lazy">
 <div aria-hidden="true" style="position:absolute;inset:0;pointer-events:none;background:linear-gradient(90deg,rgba(0,0,0,.45) 0%,rgba(0,0,0,0) 9%,rgba(255,255,255,.05) 34%,rgba(255,255,255,0) 50%,rgba(0,0,0,0) 88%,rgba(0,0,0,.5) 100%),linear-gradient(180deg,rgba(0,0,0,.35) 0%,rgba(0,0,0,0) 4%,rgba(0,0,0,0) 94%,rgba(0,0,0,.4) 100%);box-shadow:inset 0 0 0 1px rgba(212,162,74,.32)"></div>
 </div>
 </div>
@@ -946,7 +944,7 @@ button,nav,header,h1,h2,h3,h4,h5,h6,label,summary,[role="link"],[role="button"],
 <div data-tin="true" style="position:relative;width:86%;margin-top:22.3%;filter:drop-shadow(0 26px 30px rgba(0,0,0,.85))">
 <div aria-hidden="true" style="position:relative;width:102%;margin-left:-1%;aspect-ratio:80/8.6;background:linear-gradient(90deg,#050505 0%,#1A1A18 20%,#3A3936 42%,#1C1C1A 64%,#0B0B0A 85%,#030303 100%);border-radius:3px 3px 1px 1px;box-shadow:inset 0 1px 0 rgba(255,255,255,.28),inset 0 -2px 3px rgba(0,0,0,.55);border-bottom:1px solid rgba(212,162,74,.55)"></div>
 <div style="position:relative;background:#000">
-<img src="assets/photo/tins/rcx-front-turkey-tail.jpg" alt="Turkey Tail steel tin front" style="width:100%;aspect-ratio:80/102;height:auto;display:block" loading="lazy">
+<img src="assets/photo/tins/rcx-front-turkey-tail.jpg?v=9" alt="Turkey Tail steel tin front" style="width:100%;aspect-ratio:80/102;height:auto;display:block" loading="lazy">
 <div aria-hidden="true" style="position:absolute;inset:0;pointer-events:none;background:linear-gradient(90deg,rgba(0,0,0,.45) 0%,rgba(0,0,0,0) 9%,rgba(255,255,255,.05) 34%,rgba(255,255,255,0) 50%,rgba(0,0,0,0) 88%,rgba(0,0,0,.5) 100%),linear-gradient(180deg,rgba(0,0,0,.35) 0%,rgba(0,0,0,0) 4%,rgba(0,0,0,0) 94%,rgba(0,0,0,.4) 100%);box-shadow:inset 0 0 0 1px rgba(212,162,74,.32)"></div>
 </div>
 </div>
@@ -962,7 +960,7 @@ button,nav,header,h1,h2,h3,h4,h5,h6,label,summary,[role="link"],[role="button"],
 <div data-tin="true" style="position:relative;width:86%;margin-top:3%;filter:drop-shadow(0 26px 30px rgba(0,0,0,.85))">
 <div aria-hidden="true" style="position:relative;width:102%;margin-left:-1%;aspect-ratio:80/8.6;background:linear-gradient(90deg,#5E0F17 0%,#8E1C26 18%,#C2404A 40%,#9A222C 62%,#6A121B 84%,#4E0B12 100%);border-radius:3px 3px 1px 1px;box-shadow:inset 0 1px 0 rgba(255,255,255,.28),inset 0 -2px 3px rgba(0,0,0,.55);border-bottom:1px solid rgba(212,162,74,.55)"></div>
 <div style="position:relative;background:#A8232E">
-<img src="assets/photo/tins/rcx-front-combo.jpg" alt="Mushroom Combo packet front" style="width:100%;aspect-ratio:80/127;height:auto;display:block" loading="lazy">
+<img src="assets/photo/tins/rcx-front-combo.jpg?v=8" alt="Mushroom Combo packet front" style="width:100%;aspect-ratio:80/127;height:auto;display:block" loading="lazy">
 <div aria-hidden="true" style="position:absolute;inset:0;pointer-events:none;background:linear-gradient(90deg,rgba(0,0,0,.45) 0%,rgba(0,0,0,0) 9%,rgba(255,255,255,.06) 34%,rgba(255,255,255,0) 50%,rgba(0,0,0,0) 88%,rgba(0,0,0,.5) 100%),linear-gradient(180deg,rgba(0,0,0,.35) 0%,rgba(0,0,0,0) 4%,rgba(0,0,0,0) 94%,rgba(0,0,0,.4) 100%);box-shadow:inset 0 0 0 1px rgba(212,162,74,.25)"></div>
 </div>
 </div>
@@ -1045,7 +1043,7 @@ button,nav,header,h1,h2,h3,h4,h5,h6,label,summary,[role="link"],[role="button"],
 <div style="position:absolute;inset:0;background:rgba(0,0,0,.92);pointer-events:none"></div>
 <div style="position:relative;max-width:1300px;margin:0 auto;display:grid;grid-template-columns:repeat(4,minmax(0,1fr));gap:16px" data-m="1col"><article style="border:1px solid rgba(212,162,74,.2);background:linear-gradient(#0A0A09,#000);padding:16px;display:flex;flex-direction:column;container-type:inline-size">
 <div style="position:relative;height:calc(125cqw + 16px);background:#000;margin:-16px -16px 20px;overflow:hidden">
-<img src="assets/photo/tins/rcx-front-lions-mane-packet.jpg" alt="Lion's Mane packet front" style="position:absolute;max-width:none;width:calc(100cqw * 1552 / 1312);height:auto;left:calc(16px - 100cqw * 120 / 1312);top:calc(16px - 100cqw * 120 / 1312);aspect-ratio:1552/1760;display:block">
+<img src="assets/photo/tins/rcx-front-lions-mane-packet.jpg?v=5" alt="Lion's Mane packet front" style="position:absolute;max-width:none;width:calc(100cqw * 1552 / 1312);height:auto;left:calc(16px - 100cqw * 120 / 1312);top:calc(16px - 100cqw * 120 / 1312);aspect-ratio:1552/1760;display:block">
 </div>
 <h2 style="font-family:'Playfair Display',serif;font-weight:500;font-size:clamp(30px,2.6vw,38px);color:#F1ECE1;margin:0 0 8px">Lion's Mane</h2>
 <p style="font-family:'Bebas Neue',sans-serif;letter-spacing:.16em;font-size:15px;color:#D4A24A;margin:0 0 14px">20 PACKETS · 2 GRAM SERVINGS</p>
@@ -1069,7 +1067,7 @@ button,nav,header,h1,h2,h3,h4,h5,h6,label,summary,[role="link"],[role="button"],
 
 <article style="border:1px solid rgba(212,162,74,.2);background:linear-gradient(#0A0A09,#000);padding:16px;display:flex;flex-direction:column;container-type:inline-size">
 <div style="position:relative;height:calc(125cqw + 16px);background:#000;margin:-16px -16px 20px;overflow:hidden">
-<img src="assets/photo/tins/rcx-front-cordyceps-packet.jpg" alt="Cordyceps packet front" style="position:absolute;max-width:none;width:calc(100cqw * 1552 / 1312);height:auto;left:calc(16px - 100cqw * 120 / 1312);top:calc(16px - 100cqw * 120 / 1312);aspect-ratio:1552/1760;display:block">
+<img src="assets/photo/tins/rcx-front-cordyceps-packet.jpg?v=5" alt="Cordyceps packet front" style="position:absolute;max-width:none;width:calc(100cqw * 1552 / 1312);height:auto;left:calc(16px - 100cqw * 120 / 1312);top:calc(16px - 100cqw * 120 / 1312);aspect-ratio:1552/1760;display:block">
 </div>
 <h2 style="font-family:'Playfair Display',serif;font-weight:500;font-size:clamp(30px,2.6vw,38px);color:#F1ECE1;margin:0 0 8px">Cordyceps</h2>
 <p style="font-family:'Bebas Neue',sans-serif;letter-spacing:.16em;font-size:15px;color:#D4A24A;margin:0 0 14px">20 PACKETS · 2 GRAM SERVINGS</p>
@@ -1093,7 +1091,7 @@ button,nav,header,h1,h2,h3,h4,h5,h6,label,summary,[role="link"],[role="button"],
 
 <article style="border:1px solid rgba(212,162,74,.2);background:linear-gradient(#0A0A09,#000);padding:16px;display:flex;flex-direction:column;container-type:inline-size">
 <div style="position:relative;height:calc(125cqw + 16px);background:#000;margin:-16px -16px 20px;overflow:hidden">
-<img src="assets/photo/tins/rcx-front-turkey-tail-packet.jpg" alt="Turkey Tail packet front" style="position:absolute;max-width:none;width:calc(100cqw * 1552 / 1312);height:auto;left:calc(16px - 100cqw * 120 / 1312);top:calc(16px - 100cqw * 120 / 1312);aspect-ratio:1552/1760;display:block">
+<img src="assets/photo/tins/rcx-front-turkey-tail-packet.jpg?v=5" alt="Turkey Tail packet front" style="position:absolute;max-width:none;width:calc(100cqw * 1552 / 1312);height:auto;left:calc(16px - 100cqw * 120 / 1312);top:calc(16px - 100cqw * 120 / 1312);aspect-ratio:1552/1760;display:block">
 </div>
 <h2 style="font-family:'Playfair Display',serif;font-weight:500;font-size:clamp(30px,2.6vw,38px);color:#F1ECE1;margin:0 0 8px">Turkey Tail</h2>
 <p style="font-family:'Bebas Neue',sans-serif;letter-spacing:.16em;font-size:15px;color:#D4A24A;margin:0 0 14px">20 PACKETS · 2 GRAM SERVINGS</p>
@@ -1116,7 +1114,7 @@ button,nav,header,h1,h2,h3,h4,h5,h6,label,summary,[role="link"],[role="button"],
 </article>
 <article style="border:1px solid rgba(212,162,74,.2);background:#A6202B;padding:16px;display:flex;flex-direction:column;container-type:inline-size">
 <div style="position:relative;height:calc(125cqw + 16px);background:#A6202B;margin:-16px -16px 20px;overflow:hidden">
-<img src="assets/photo/tins/rcx-front-combo-shop-v5.jpg" alt="Mushroom Combo packet front" style="position:absolute;max-width:none;width:calc(100cqw * 1552 / 1312);height:auto;left:calc(16px - 100cqw * 120 / 1312);top:calc(16px - 100cqw * 120 / 1312);aspect-ratio:1552/1760;display:block">
+<img src="assets/photo/tins/rcx-front-combo-shop-v5.jpg?v=8" alt="Mushroom Combo packet front" style="position:absolute;max-width:none;width:calc(100cqw * 1552 / 1312);height:auto;left:calc(16px - 100cqw * 120 / 1312);top:calc(16px - 100cqw * 120 / 1312);aspect-ratio:1552/1760;display:block">
 <div data-metal="true" aria-hidden="true" style="position:absolute;inset:0;pointer-events:none;mix-blend-mode:overlay;opacity:.55;background:repeating-linear-gradient(0deg,rgba(255,255,255,.10) 0px,rgba(0,0,0,.14) 1px,rgba(255,255,255,.04) 2px,rgba(0,0,0,.08) 3px,rgba(255,255,255,.07) 4px),repeating-linear-gradient(0deg,rgba(0,0,0,0) 0px,rgba(0,0,0,.10) 7px,rgba(255,255,255,.05) 13px,rgba(0,0,0,0) 19px)"></div>
 <div aria-hidden="true" style="position:absolute;inset:0;pointer-events:none;mix-blend-mode:soft-light;background:linear-gradient(105deg,rgba(0,0,0,.30) 0%,rgba(255,255,255,.10) 30%,rgba(0,0,0,.12) 52%,rgba(255,255,255,.08) 74%,rgba(0,0,0,.30) 100%)"></div>
 <div aria-hidden="true" style="position:absolute;inset:0;pointer-events:none;background:linear-gradient(180deg,rgba(0,0,0,0) 70%,rgba(0,0,0,.22) 100%)"></div>
